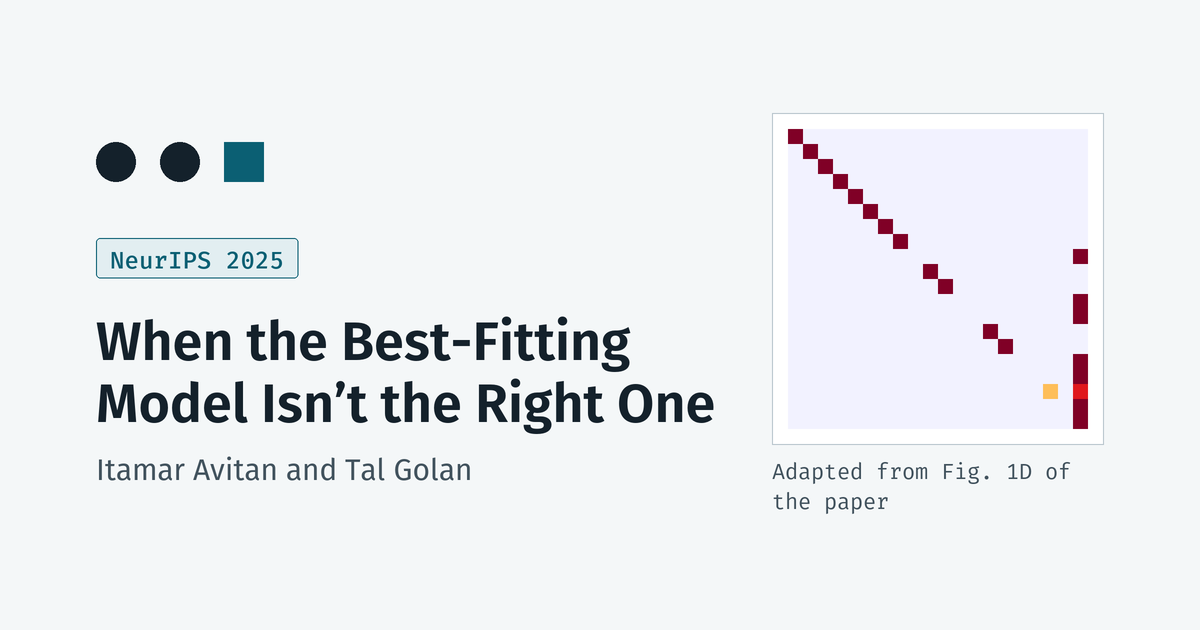
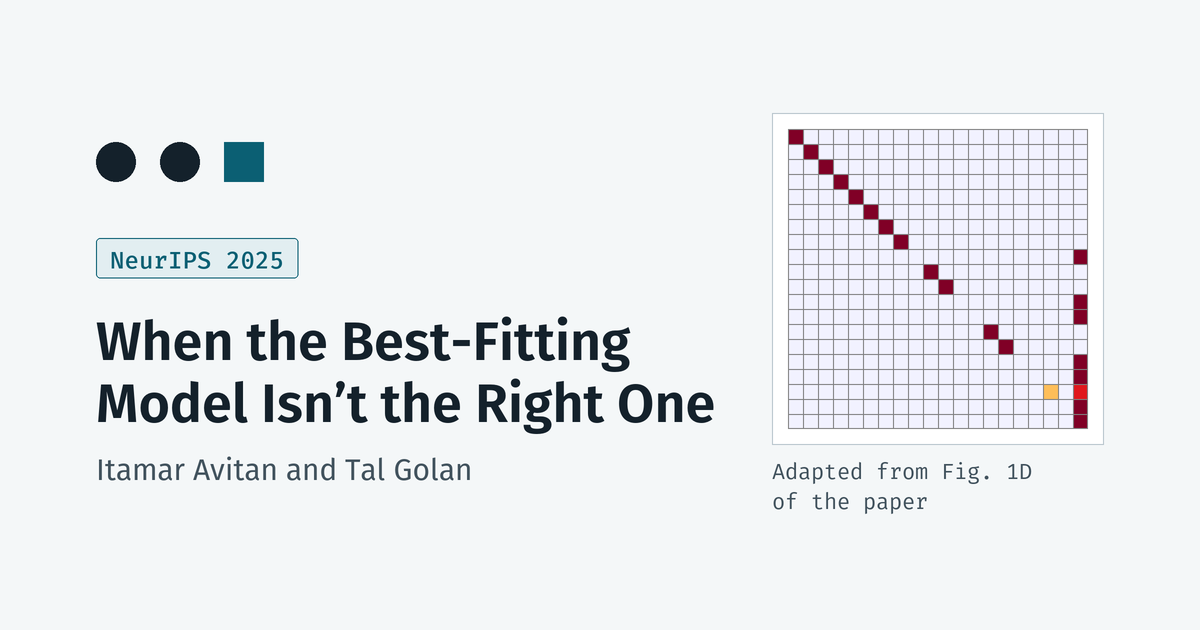
polish(WP-S6): review fixes
Built (review of 93141ac: 1 should_fix, 6 nits):
- SHOULD_FIX 1, the 404 page's CV address broke at its own hyphen ("https://itamar-" /
  "avitan.github.io/cv.pdf"). New build.py filter `printable_url`: the address is printed with
  <wbr> after the scheme's "//", before each dot of the host and after the slash that ends it,
  and each hyphenated host label in the no-break span, so the browser breaks only where a reader
  can follow and never at "itamar-". The labels stay separate (not the whole host tied) so at
  200% text on 320px the address breaks before a dot instead of overflow-wrap breaking it
  mid-word. templates/pages/404.html.j2 passes site_url + link.url through the filter; the
  visible text is the address unchanged. Tests: test_build's 404 assertion pins the markup, a new
  test_a_printed_address_breaks_only_where_a_reader_can_follow covers the filter (a host without
  hyphens, two hyphenated labels, nothing after the slash, escaping, visible text == address), and
  the browser 404 test reads the link's lines off the character rects at 16px and 32px and
  asserts every break is after "/" or before "." (test_browser._LINES_OF).
- NIT 1, og-research.png caption runt: wrap_in_two now splits only on plain spaces (a no-break
  space ties, as on the page; Pillow draws U+00A0 as a space in both Fira faces, checked
  pixel-for-pixel) and prefers the fuller first line between equally wide splits; the caption's
[…]

Changed region(s): [[0.6475, 0.2111, 0.8942, 0.6635], [0.6475, 0.7841, 0.7708, 0.8143], [0.8633, 0.7238, 0.8942, 0.754]]

diff --git a/404.html b/404.html
@@ -143,7 +143,7 @@
 
     <section id="not-found" aria-labelledby="not-found-h">
       <h1 id="not-found-h" class="inset">Nothing here</h1>
-      <p class="page-intro inset">Nothing lives at this address. Everything on the site is in the strip above. The CV is at <a href="/cv.pdf">https://itamar-avitan.github.io/cv.pdf</a>.</p>
+      <p class="page-intro inset">There is no page at this address. Every page of the site is linked from the strip above or the foot of this one. The CV is at <a href="/cv.pdf">https://<wbr><span class="nb">itamar-avitan</span><wbr>.github<wbr>.io/<wbr>cv.pdf</a>.</p>
     </section>
 
   </main>

diff --git a/tools/make_og.py b/tools/make_og.py
@@ -4,8 +4,10 @@
                        shares it unless it sets `og_image`.
   img/og-research.png  the paper card, for /research/: the mark, the first badge of the first research card,
                        the paper's short title (the part after the colon), the authors, and the figure the
-                       card shows -- Figure 1D drawn from its own SVG, or the illustration's JPEG, whichever
-                       `research[0].figure` points at -- so the preview always matches the page it opens.
+                       card shows -- Figure 1D drawn from its own SVG (the matrix's cells and its grid, not
+                       its axis labels), or the illustration's JPEG, whichever `research[0].figure` points
+                       at -- so the preview always matches the page it opens. The first clause of the
+                       figure's caption stands under it, split in two balanced lines when it needs two.
 
 Run once after the name, the role line, the identity line, or the paper card's title, badge, authors or
 figure change:  python3 tools/make_og.py
@@ -55,18 +57,21 @@ def load_font(style: str, size: int, family: str = "Sans") -> ImageFont.FreeType
 
 
 def wrap_in_two(text: str, font, draw: ImageDraw.ImageDraw) -> tuple[list[str], float]:
-    """The two-line split with the shortest longer line, and that line's width."""
-    words = text.split()
+    """The two-line split with the shortest longer line, and that line's width; of two equally wide splits,
+    the one with the fuller first line, so the short line is the last. Only a plain space is a place to
+    break: a no-break space keeps its two words together, as it does on the page, and Pillow draws it as a
+    space in both Fira faces."""
+    words = text.split(" ")
     splits = [[" ".join(words[:i]), " ".join(words[i:])] for i in range(1, len(words))] or [[text]]
     widest = lambda lines: max(draw.textlength(line, font=font) for line in lines)
-    best = min(splits, key=widest)
+    best = min(splits, key=lambda lines: (widest(lines), -draw.textlength(lines[0], font=font)))
     return best, widest(best)
 
 
 def wrap(text: str, font, draw: ImageDraw.ImageDraw, room: float) -> list[str]:
-    """Greedy word wrap into lines no wider than `room`."""
+    """Greedy word wrap into lines no wider than `room`; a no-break space ties, as in wrap_in_two."""
     lines, line = [], ""
-    for word in text.split():
+    for word in text.split(" "):
         trial = f"{line} {word}".strip()
         if line and draw.textlength(trial, font=font) > room:
             lines.append(line)
@@ -132,13 +137,17 @@ def draw_card(name: str, line: str, role: str = "") -> Image.Image:
     return img.resize((W, H), Image.LANCZOS)
 
 
-def svg_rects(path: Path) -> list[tuple[float, float, float, float, str]]:
-    """The rectangles of the figure's SVG that sit inside a translated group -- for img/model-recovery.svg the
-    matrix: its ground and every cell -- as (x, y, width, height, fill) in the SVG's own units. The text
-    labels and the root-level ground are left out: a card cannot set the page's webfont, and the sheet the
-    figure is drawn on here stands in for that ground."""
+def svg_figure(path: Path) -> tuple[list[tuple[float, float, float, float, str]],
+                                    list[tuple[float, float, float, float, str]]]:
+    """What the card redraws of the figure's SVG, in the SVG's own units: the rectangles inside a translated
+    group -- for img/model-recovery.svg the matrix's ground and every cell -- as (x, y, width, height,
+    fill), and the straight strokes of a <path> in the same group -- the matrix's grid -- as (x1, y1, x2,
+    y2, stroke). A path is read as absolute M, H and V commands, which is all the grid uses; any other
+    command is refused rather than drawn wrong. The text labels and the root-level ground are left out: a
+    card cannot set the page's webfont, and the sheet the figure is drawn on here stands in for that
+    ground."""
     ns = "{http://www.w3.org/2000/svg}"
-    rects = []
+    rects, lines = [], []
     for group in ET.parse(path).getroot().iter(f"{ns}g"):
         move = re.fullmatch(r"translate\(\s*([-\d.]+)[\s,]+([-\d.]+)\s*\)", group.get("transform", ""))
         if not move:
@@ -147,25 +156,53 @@ def svg_rects(path: Path) -> list[tuple[float, float, float, float, str]]:
         for rect in group.iter(f"{ns}rect"):
             rects.append((tx + float(rect.get("x", 0)), ty + float(rect.get("y", 0)),
                           float(rect.get("width")), float(rect.get("height")), rect.get("fill", INK)))
-    return rects
+        for shape in group.iter(f"{ns}path"):
+            d, stroke = shape.get("d", ""), shape.get("stroke", "none")
+            if stroke == "none":
+                continue
+            if re.sub(r"[MHV\d\s.,-]", "", d):
+                raise ValueError(f"{path.name}: a path with commands other than M, H and V cannot be redrawn")
+            cx = cy = 0.0
+            for command, a, b in re.findall(r"([MHV])\s*([-\d.]+)(?:[\s,]+([-\d.]+))?", d):
+                if command == "M":
+                    cx, cy = float(a), float(b)
+                elif command == "H":
+                    lines.append((tx + cx, ty + cy, tx + float(a), ty + cy, stroke))
+                    cx = float(a)
+                else:
+                    lines.append((tx + cx, ty + cy, tx + cx, ty + float(a), stroke))
+                    cy = float(a)
+    return rects, lines
 
 
 def figure_image(fig: dict, s: int) -> Image.Image:
     """The card's picture of `research[0].figure`, FIG px square on a sheet with FIG_PAD around it: a plot is
-    redrawn from its SVG's rectangles, an illustration is its JPEG resized."""
+    redrawn from its SVG's rectangles and then its grid, one final pixel wide in the path's own stroke
+    colour (the SVG's hairline would vanish at this size, and without the grid the matrix read as dots on a
+    pale square rather than the 20 by 20 grid the page shows); an illustration is its JPEG resized."""
     side = (FIG + 2 * FIG_PAD) * s
     sheet = Image.new("RGB", (side, side), SHEET)
     draw = ImageDraw.Draw(sheet)
     draw.rectangle([0, 0, side - 1, side - 1], outline=RULE, width=s)
     src = ROOT / fig["src"]
     if src.suffix == ".svg":
-        rects = svg_rects(src)
+        rects, lines = svg_figure(src)
         x0, y0 = min(r[0] for r in rects), min(r[1] for r in rects)
         x1, y1 = max(r[0] + r[2] for r in rects), max(r[1] + r[3] for r in rects)
         k = FIG * s / max(x1 - x0, y1 - y0)
+        at = lambda x, y: (FIG_PAD * s + (x - x0) * k, FIG_PAD * s + (y - y0) * k)     # SVG units to sheet px
         for x, y, w, h, fill in rects:
-            left, top = FIG_PAD * s + (x - x0) * k, FIG_PAD * s + (y - y0) * k
+            left, top = at(x, y)
             draw.rectangle([round(left), round(top), round(left + w * k) - 1, round(top + h * k) - 1], fill=fill)
+        last = FIG_PAD * s + FIG * s - 1                    # the figure's last pixel: the outermost lines stay inside it
+        for xa, ya, xb, yb, stroke in lines:
+            (left, top), (right, bottom) = at(min(xa, xb), min(ya, yb)), at(max(xa, xb), max(ya, yb))
+            if xa == xb:                                    # a vertical line, s px wide (one final pixel)
+                px = min(round(left), last - s + 1)
+                draw.rectangle([px, round(top), px + s - 1, min(round(bottom), last)], fill=stroke)
+            else:
+                py = min(round(top), last - s + 1)
+                draw.rectangle([round(left), py, min(round(right), last), py + s - 1], fill=stroke)
     else:
         with Image.open(src) as im:
             sheet.paste(im.convert("RGB").resize((FIG * s, FIG * s), Image.LANCZOS), (FIG_PAD * s, FIG_PAD * s))
@@ -190,11 +227,13 @@ def draw_research_card(site: dict) -> Image.Image:
     leading = round(tsize * 1.15)
     authors = " and ".join(card.get("authors") or [])
     authors_font = load_font("Regular", 30 * s)
-    # the caption's first clause ("Adapted from Fig. 1D of the paper"): split before the no-break space that
-    # ties "Fig." to its number is turned into a plain one, or the split would land on it
-    caption = (card["figure"].get("caption") or "").split(". ")[0].replace(" ", " ")
+    # the caption's first clause ("Adapted from Fig. 1D of the paper"); the no-break space that ties "Fig."
+    # to its number stays, so neither wrap can part them
+    caption = (card["figure"].get("caption") or "").split(". ")[0]
     caption_font = load_font("Regular", 22 * s, "Mono")
     caption_lines = wrap(caption, caption_font, draw, sheet_w * s) if caption else []
+    if len(caption_lines) == 2:             # two lines: the balanced split, not the greedy one that leaves a runt
+        caption_lines, _ = wrap_in_two(caption, caption_font, draw)     # its longer line is never wider than greedy's
 
     u = MARK_UNIT
     badge_h = 24 + 16 if badge else 0

diff --git a/tests/test_build.py b/tests/test_build.py
@@ -225,7 +225,9 @@ def test_the_404_page_is_built_beside_the_site_and_not_as_part_of_it(tmp_path, m
     text = _visible_text(html.partition("<body")[2])
     assert SITE["not_found"]["heading"] in text and SITE["not_found"]["intro"] in text
     assert html.count("<h1") == 1 and 'class="opens-with-h1"' in html
-    assert f'The CV is at <a href="/cv.pdf">{SITE["site_url"]}cv.pdf</a>.' in html
+    # the address may break after "//", before a dot of the host and after its slash, never at its hyphen
+    assert ('The CV is at <a href="/cv.pdf">https://<wbr><span class="nb">itamar-avitan</span><wbr>.github<wbr>.io/'
+            '<wbr>cv.pdf</a>.') in html
     strip = html.partition('<nav class="sitenav"')[2].partition("</nav>")[0]
     assert re.findall(r'href="([^"]*)"', strip) == ["/"] + [f"/{s}" for s in NAV_SLUGS[1:]] + ["/cv.pdf"]
     assert 'aria-current="page"' not in html                                  # it is nowhere in the site
@@ -235,6 +237,21 @@ def test_the_404_page_is_built_beside_the_site_and_not_as_part_of_it(tmp_path, m
     monkeypatch.setattr(build, "load_site", lambda _p: without)
     (tmp_path / "404.html").unlink()
     assert build.main([]) == 0 and not (tmp_path / "404.html").exists()      # the entry is optional
+
+
+def test_a_printed_address_breaks_only_where_a_reader_can_follow():
+    """An address printed as text (the 404 page's CV sentence) may break after the scheme, before a dot of
+    the host and after the slash that ends it, and never at a hyphen inside a host label: every engine
+    broke "https://itamar-avitan.github.io/cv.pdf" after "itamar-" on a 320px screen, which reads as a
+    hyphenation (deep review 2026-09-25, WP-S6 review). The visible text is the address, unchanged."""
+    printed = build.printable_url("https://itamar-avitan.github.io/cv.pdf")
+    assert printed == 'https://<wbr><span class="nb">itamar-avitan</span><wbr>.github<wbr>.io/<wbr>cv.pdf'
+    assert build.printable_url("https://example.org/") == "https://<wbr>example<wbr>.org/"     # nothing after the slash
+    assert build.printable_url("https://a-b.c-d.org/x") == ('https://<wbr><span class="nb">a-b</span>'
+                                                            '<wbr>.<span class="nb">c-d</span><wbr>.org/<wbr>x')
+    for url in ("https://itamar-avitan.github.io/cv.pdf", "https://example.org/", "https://a-b.c-d.org/x"):
+        assert unescape(re.sub(r"<[^>]+>", "", build.printable_url(url))) == url
+    assert "&lt;x&gt;" in build.printable_url("https://a-b.org/<x>") and "<x>" not in build.printable_url("https://a-b.org/<x>")
 
 
 # --- the four pages ---------------------------------------------------------------------------------------

diff --git a/build.py b/build.py
@@ -16,6 +16,7 @@ from pathlib import Path
 
 import yaml
 from jinja2 import Environment, FileSystemLoader, StrictUndefined, select_autoescape
+from markupsafe import Markup, escape
 
 ROOT = Path(__file__).resolve().parent
 REQUIRED = ["site_url", "name", "alternate_name", "identity_line", "pages", "about", "now", "links", "news",
@@ -183,6 +184,23 @@ def local(url: str, base: str) -> str:
     return url if ABSOLUTE.match(url or "") else base + url
 
 
+def printable_url(url: str) -> Markup:
+    """An address printed as text, with its line breaks chosen rather than left to the browser: after the
+    scheme's "//", before each dot of the host, and after the slash that ends the host -- never at a hyphen
+    inside a host label, which is wrapped in the no-break span. Left alone, all three engines break
+    "https://itamar-avitan.github.io/cv.pdf" after "itamar-" on a 320px screen (and mid-word at 200% text),
+    and a hyphen at a line end reads as a hyphenation, so a reader retyping the address drops it. The labels
+    are kept separate rather than the whole host tied, so at 200% text on a 320px screen, where the host is
+    wider than the measure, the address still has a place of its own to break before overflow-wrap breaks
+    it anywhere (deep review 2026-09-25, WP-S6 review). The text is escaped here; the result is Markup."""
+    scheme, sep, rest = url.partition("://")
+    host, slash, path = rest.partition("/")
+    labels = [Markup('<span class="nb">{}</span>').format(label) if "-" in label else escape(label)
+              for label in host.split(".")]
+    return Markup("").join([escape(scheme + sep), Markup("<wbr>"), Markup("<wbr>.").join(labels),
+                            escape(slash), Markup("<wbr>") if path else Markup(""), escape(path)])
+
+
 def _person(site: dict) -> dict:
     """The one Person every page describes. The @id is what lets a crawler merge the copies on every page into
     one entity, and tell that entity from the other Itamar Avitan. Everything past the name is optional: a key
@@ -253,6 +271,7 @@ def environment() -> Environment:
                       autoescape=select_autoescape(["html", "j2"]), trim_blocks=True, lstrip_blocks=True)
     env.filters["local"] = local
     env.filters["opening"] = opening
+    env.filters["printable_url"] = printable_url
     return env
 
 

diff --git a/tests/test_browser.py b/tests/test_browser.py
@@ -161,6 +161,25 @@ def served():
     server.shutdown()
 
 
+# The lines an element's text is set in, read off the client rects of each character.
+_LINES_OF = """
+(el) => {
+  const walker = document.createTreeWalker(el, NodeFilter.SHOW_TEXT);
+  const lines = []; let node, prevTop = null, line = '';
+  while ((node = walker.nextNode())) {
+    for (let i = 0; i < node.length; i++) {
+      const r = document.createRange(); r.setStart(node, i); r.setEnd(node, i + 1);
+      const rects = r.getClientRects(); if (!rects.length) continue;
+      const top = Math.round(rects[0].top);
+      if (prevTop !== null && Math.abs(top - prevTop) > 2) { lines.push(line); line = ''; }
+      line += node.data[i]; prevTop = top;
+    }
+  }
+  return line ? [...lines, line] : lines;
+}
+"""
+
+
 @pytest.mark.parametrize("width, scheme", [(320, "light"), (390, "dark"), (1280, "light")])
 def test_a_wrong_address_gets_the_sites_own_404_page(browser, served, width, scheme):
     """GitHub Pages answers a missing address with /404.html and status 404, at any depth, and used to answer
@@ -187,6 +206,11 @@ def test_a_wrong_address_gets_the_sites_own_404_page(browser, served, width, sch
         page.wait_for_timeout(50)
         over = page.evaluate("document.documentElement.scrollWidth - document.documentElement.clientWidth")
         assert over <= 0, f"404 page at {width}px, {text}px text: {over}px past the viewport"
+        # the printed CV address breaks only where the template lets it: after "//", before a dot of the
+        # host or after its slash -- never at "itamar-", which read as a hyphenation, and never mid-word
+        lines = page.evaluate(_LINES_OF, page.query_selector("#not-found a"))
+        for end, start in zip(lines, lines[1:]):
+            assert end.endswith("/") or start.startswith("."), (width, text, lines)
     hrefs = page.evaluate("[...document.querySelectorAll('.sitenav a')].map(a => a.getAttribute('href'))")
     assert hrefs == ["/"] + [f"/{s}" for s in NAV_SLUGS[1:]] + ["/cv.pdf"]
     assert page.locator('.sitenav a[aria-current="page"]').count() == 0     # it is nowhere in the site
